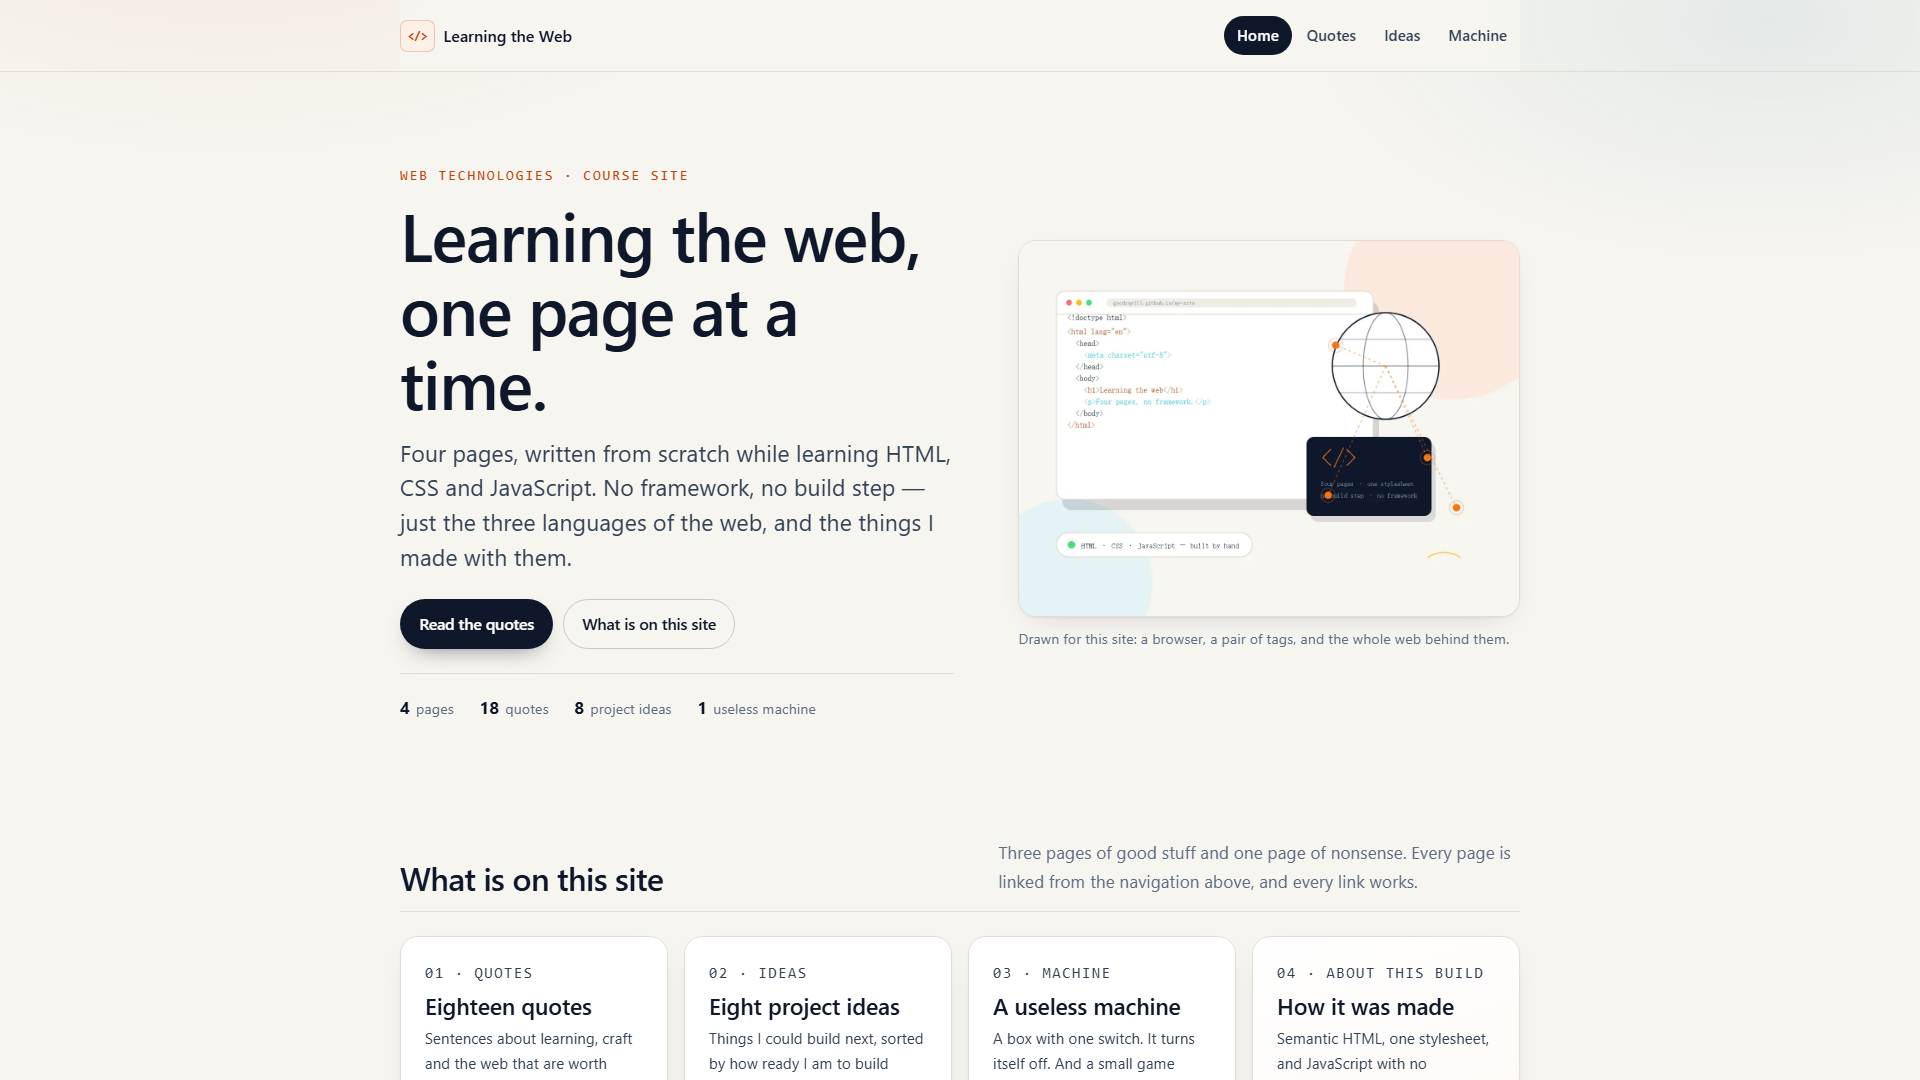
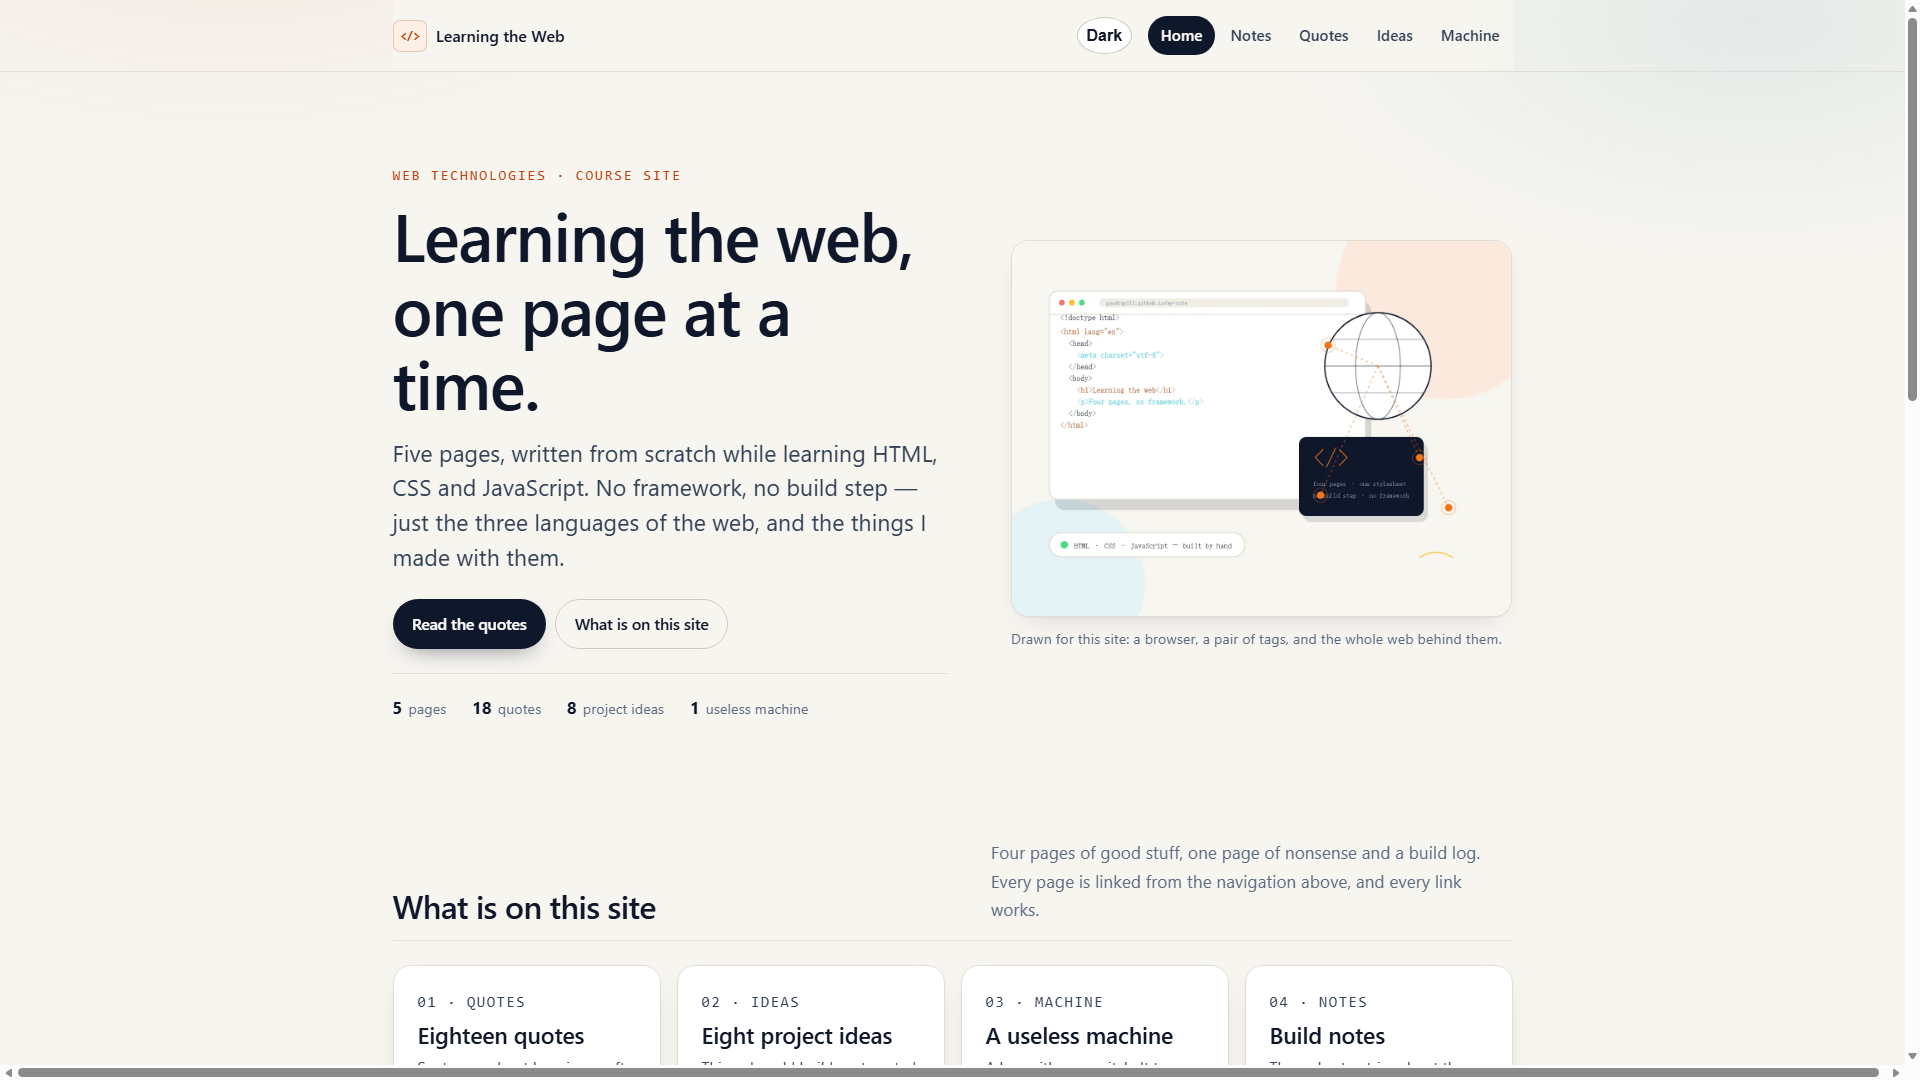
Add a helpful 404 page and refresh the screenshots and README

diff --git a/404.html b/404.html
@@ -1,0 +1,114 @@
+<!DOCTYPE html>
+<html lang="en" class="no-js">
+<head>
+  <meta charset="utf-8">
+  <meta name="viewport" content="width=device-width, initial-scale=1">
+  <title>Page not found — Learning the Web</title>
+  <meta name="description" content="That page does not exist. Here are the five pages that do.">
+  <meta name="robots" content="noindex">
+  <meta name="theme-color" content="#0f172a">
+  <meta property="og:title" content="Page not found — Learning the Web">
+  <meta property="og:description" content="That page does not exist. Here are the five pages that do.">
+  <meta property="og:image" content="https://goodray111.github.io/Agnb666/images/cover.png">
+
+  <link rel="icon" href="images/icons/favicon-32.png" sizes="32x32" type="image/png">
+  <link rel="apple-touch-icon" href="images/icons/apple-touch-icon.png">
+  <link rel="preload" href="css/style.css" as="style">
+  <script>document.documentElement.classList.remove('no-js');document.documentElement.classList.add('js');</script>
+  <script>(function(){try{var t=localStorage.getItem("theme");if(t!=="dark"&&t!=="light"){t=window.matchMedia("(prefers-color-scheme: dark)").matches?"dark":"light";}document.documentElement.setAttribute("data-theme",t);document.documentElement.style.colorScheme=t;}catch(e){}})();</script>
+  <link rel="stylesheet" href="css/style.css">
+  <script defer src="js/nav.js"></script>
+</head>
+<body data-page="404">
+  <a class="skip-link skip-link--static" href="#main">Skip to content</a>
+
+  <nav id="site-nav" class="site-nav" aria-label="Main">
+    <noscript>
+      <div class="wrap nav-fallback">
+        <a class="brand" href="index.html"><span class="brand-mark">&lt;/&gt;</span> Learning the Web</a>
+        <ul class="nav-menu is-open">
+          <li><a href="index.html">Home</a></li>
+          <li><a href="notes.html">Notes</a></li>
+          <li><a href="quotes.html">Quotes</a></li>
+          <li><a href="project.html">Ideas</a></li>
+          <li><a href="machine.html">Machine</a></li>
+        </ul>
+      </div>
+    </noscript>
+  </nav>
+
+  <main id="main" class="wrap not-found">
+    <p class="eyebrow">404</p>
+    <h1>This page does not exist</h1>
+    <p class="lede">No harm done — it is probably a typo, or a link to something I have not built yet.
+      Everything that does exist is one of these five pages.</p>
+
+    <div class="cards">
+      <article class="card card--page">
+        <p class="card-kicker">01 · Home</p>
+        <h2><a href="index.html">Learning the Web</a></h2>
+        <p>What the site is, and where each part lives.</p>
+      </article>
+      <article class="card card--page">
+        <p class="card-kicker">02 · Notes</p>
+        <h2><a href="notes.html">Build notes</a></h2>
+        <p>Three entries about how the pages were made.</p>
+      </article>
+      <article class="card card--page">
+        <p class="card-kicker">03 · Quotes</p>
+        <h2><a href="quotes.html">Eighteen quotes</a></h2>
+        <p>Searchable, filterable, and you can keep favourites.</p>
+      </article>
+      <article class="card card--page">
+        <p class="card-kicker">04 · Ideas</p>
+        <h2><a href="project.html">Project ideas</a></h2>
+        <p>Eight things I could build next, each with a plan.</p>
+      </article>
+      <article class="card card--page">
+        <p class="card-kicker">05 · Machine</p>
+        <h2><a href="machine.html">The useless machine</a></h2>
+        <p>A switch that turns itself off, and a small game.</p>
+      </article>
+    </div>
+
+    <p class="fine" style="margin-top:var(--space-4)">
+      If a link on this site sent you here, <a href="https://github.com/Goodray111/Agnb666/issues">open an issue</a>
+      and I will fix it.
+    </p>
+  </main>
+
+  <footer class="site-foot">
+    <div class="wrap foot-grid">
+      <div>
+        <p class="foot-brand"><span class="brand-mark" aria-hidden="true">&lt;/&gt;</span> Learning the Web</p>
+        <p class="fine">A five-page log of learning HTML, CSS and JavaScript — written and built by Goodray, 2026.</p>
+      </div>
+      <nav aria-label="Footer">
+        <p class="foot-head">Pages</p>
+        <ul class="foot-links">
+          <li><a href="index.html">Home</a></li>
+          <li><a href="notes.html">Notes</a></li>
+          <li><a href="quotes.html">Quotes</a></li>
+          <li><a href="project.html">Ideas</a></li>
+          <li><a href="machine.html">Machine</a></li>
+        </ul>
+      </nav>
+      <div>
+        <p class="foot-head">Built with</p>
+        <ul class="foot-links">
+          <li>HTML5 &amp; semantic markup</li>
+          <li>Modern CSS — Grid, Flexbox, custom properties</li>
+          <li>JavaScript, no framework, no build step</li>
+        </ul>
+      </div>
+    </div>
+    <div class="wrap foot-legal">
+      <p>Course project for Web Technologies · Hainan Bielefeld University of Applied Sciences</p>
+      <p><a href="https://github.com/Goodray111/Agnb666">Source on GitHub</a></p>
+    </div>
+  </footer>
+
+  <script defer src="js/main.js"></script>
+  <script defer src="js/theme.js"></script>
+</body>
+</html>

diff --git a/css/style.css b/css/style.css
@@ -122,8 +122,11 @@ html[data-theme="dark"] .brand-mark { background: rgba(251, 146, 60, .12); }
   display: inline-flex;
   align-items: center;
   justify-content: center;
-  width: 2.3rem;
+  min-width: 2.3rem;
   height: 2.3rem;
+  padding: 0 .55rem;
+  font-size: .8rem;
+  font-weight: 600;
   border-radius: 50%;
   border: 1px solid var(--line-strong);
   background: #fff;
@@ -1155,6 +1158,14 @@ main { padding-block: var(--space-6) var(--space-7); }
   .note-head { padding-right: 0; }
   .note-read { position: static; margin-bottom: var(--space-3); }
 }
+
+
+.not-found { padding-top: var(--space-6); }
+.not-found h1 { font-size: clamp(2.2rem, 6vw, 4rem); }
+.not-found .cards { margin-top: var(--space-5); }
+.not-found .card h2 { font-size: var(--step-1); margin: 0; }
+.not-found .card h2 a { color: var(--ink); text-decoration: none; }
+.not-found .card h2 a:hover { color: var(--accent); text-decoration: underline; }
 
 /* 9. Footer, motion, print ------------------------------------------------ */
 .site-foot {

diff --git a/js/theme.js b/js/theme.js
@@ -27,7 +27,7 @@
       const dark = theme === 'dark';
       const nextPressed = String(dark);
       const nextLabel = dark ? 'Switch to the light theme' : 'Switch to the dark theme';
-      const nextIcon = dark ? '☀' : '☾';
+      const nextIcon = dark ? 'Light' : 'Dark';
 
       if (button.getAttribute('aria-pressed') !== nextPressed) {
         button.setAttribute('aria-pressed', nextPressed);
@@ -38,8 +38,8 @@
       if (button.textContent !== nextIcon) {
         button.textContent = nextIcon;
       }
-      if (button.title !== (dark ? 'Light theme' : 'Dark theme')) {
-        button.title = dark ? 'Light theme' : 'Dark theme';
+      if (button.title !== (dark ? 'Switch to the light theme' : 'Switch to the dark theme')) {
+        button.title = dark ? 'Switch to the light theme' : 'Switch to the dark theme';
       }
     });
     current = theme;

diff --git a/nav.html b/nav.html
@@ -9,7 +9,7 @@
     <span class="nav-toggle-label">Menu</span>
     <span class="nav-toggle-bars" aria-hidden="true"><i></i><i></i><i></i></span>
   </button>
-  <button class="theme-toggle" type="button" aria-pressed="false" aria-label="Switch to the dark theme" title="Dark theme">☾</button>
+  <button class="theme-toggle" type="button" aria-pressed="false" aria-label="Switch to the dark theme" title="Switch to the dark theme">Dark</button>
   <ul class="nav-menu" id="nav-menu">
     <li><a href="index.html" data-page="index">Home</a></li>
     <li><a href="notes.html" data-page="notes">Notes</a></li>

diff --git a/README.md b/README.md
@@ -1,38 +1,58 @@
-# Learning the Web — my-site
+# Learning the Web — my-site
 
-A four-page site written from scratch for the Web Technologies course at Hainan Bielefeld
+A five-page site written from scratch for the Web Technologies course at Hainan Bielefeld
 University of Applied Sciences. No framework, no build step: HTML, one stylesheet, and
 JavaScript with no dependencies.
 
 **Live:** https://goodray111.github.io/Agnb666/
 
-## The four pages
+## The five pages
 
 | Page | What is on it |
 | --- | --- |
 | `index.html` | Hero image, an overview of the site, a short build log and what the site practises |
-| `quotes.html` | Eighteen quotes, a search box, theme filters and a random quote |
-| `project.html` | Eight project ideas with status, size and the skills each one needs |
+| `notes.html` | Three build notes, a reading-progress bar and “mark as read” |
+| `quotes.html` | Eighteen quotes, search, theme filters, favourites and a random quote |
+| `project.html` | Eight project ideas with status, size, skills and a plan dialog |
 | `machine.html` | A useless machine that switches itself off, and a bug-catching game |
+
+Plus `404.html`, which GitHub Pages serves for any address that does not exist.
+
+## What each page can do
+
+- **Notes** — the reading bar fills as you scroll; each entry has a real reading time and
+  a “mark as read” button that survives a reload (`localStorage`).
+- **Quotes** — search by word or author, filter by theme or by favourites, press the heart
+  on a quote to keep it, and ask for a random quote.
+- **Ideas** — filter by status, sort by size, open any idea for its first three steps,
+  and mark one as “next up”.
+- **Machine** — a switch that opens the lid, sends out a hand and turns itself off; below
+  it, a thirty-second game with a score and a best score.
+- **Dark theme** — one button in the header, a full set of dark tokens, the choice
+  remembered, and the system preference followed when no choice has been made.
 
 ## Files
 
 ```
 my-site/
 ├── index.html
+├── notes.html
 ├── quotes.html
 ├── project.html
 ├── machine.html
+├── 404.html
 ├── nav.html          the navigation, written once
 ├── css/style.css     one stylesheet, organised in numbered sections
 ├── js/
 │   ├── nav.js        loads nav.html into every page and marks the current page
 │   ├── main.js       reveal on scroll, back to top, footer year
-│   ├── quotes.js     search, filters, count, random quote
-│   ├── projects.js   filter and sort the ideas
+│   ├── theme.js      the light/dark toggle and the remembered choice
+│   ├── notes.js      reading progress, reading times, read marks
+│   ├── quotes.js     search, filters, favourites, count, random quote
+│   ├── projects.js   filter, sort, the plan dialog and the next-up choice
 │   └── machine.js    the useless machine and the game
-├── images/           hero, cover, screenshots, icons
-└── docs/             project notes and the hand-in checklist
+├── images/           hero, cover, screenshots (light and dark), icons
+└── docs/             project notes, accessibility notes, hand-in checklist
 ```
 
 ## Run it locally
@@ -56,23 +76,20 @@ link that matches `<body data-page="…">`. Changing a link means changing one f
 ## Built with care
 
 - Semantic landmarks on every page, one `h1` per page, no skipped heading levels.
-- A skip link, visible focus styles, keyboard support in the game, `prefers-reduced-motion`.
-- Alt text on every image; contrast checked against WCAG AA.
+- A skip link, visible focus rings, keyboard support in the game, `prefers-reduced-motion`.
+- Alt text on every image; every text colour pair checked against WCAG AA.
 - Three breakpoints (62rem, 46rem, 30rem); tested from 320 px to 1920 px.
+- Dark theme, print styles, and a 404 page that helps instead of apologising.
 - No console errors, no broken links, no placeholder text.
+
+See [`docs/ACCESSIBILITY.md`](docs/ACCESSIBILITY.md) for what was checked and what is
+still missing.
 
 ## History
 
-Twenty-three commits: twelve on 8 November, five on 9 November, five on 10 November, plus the publishing notes.
+Twenty-nine commits: fourteen on 8 November, seven on 9 November, six on 10 November,
+plus the publishing notes.
 
 ## Author
 
 Goodray · 2026 · course project for Web Technologies
-
-
-
-
-
-
-
-
